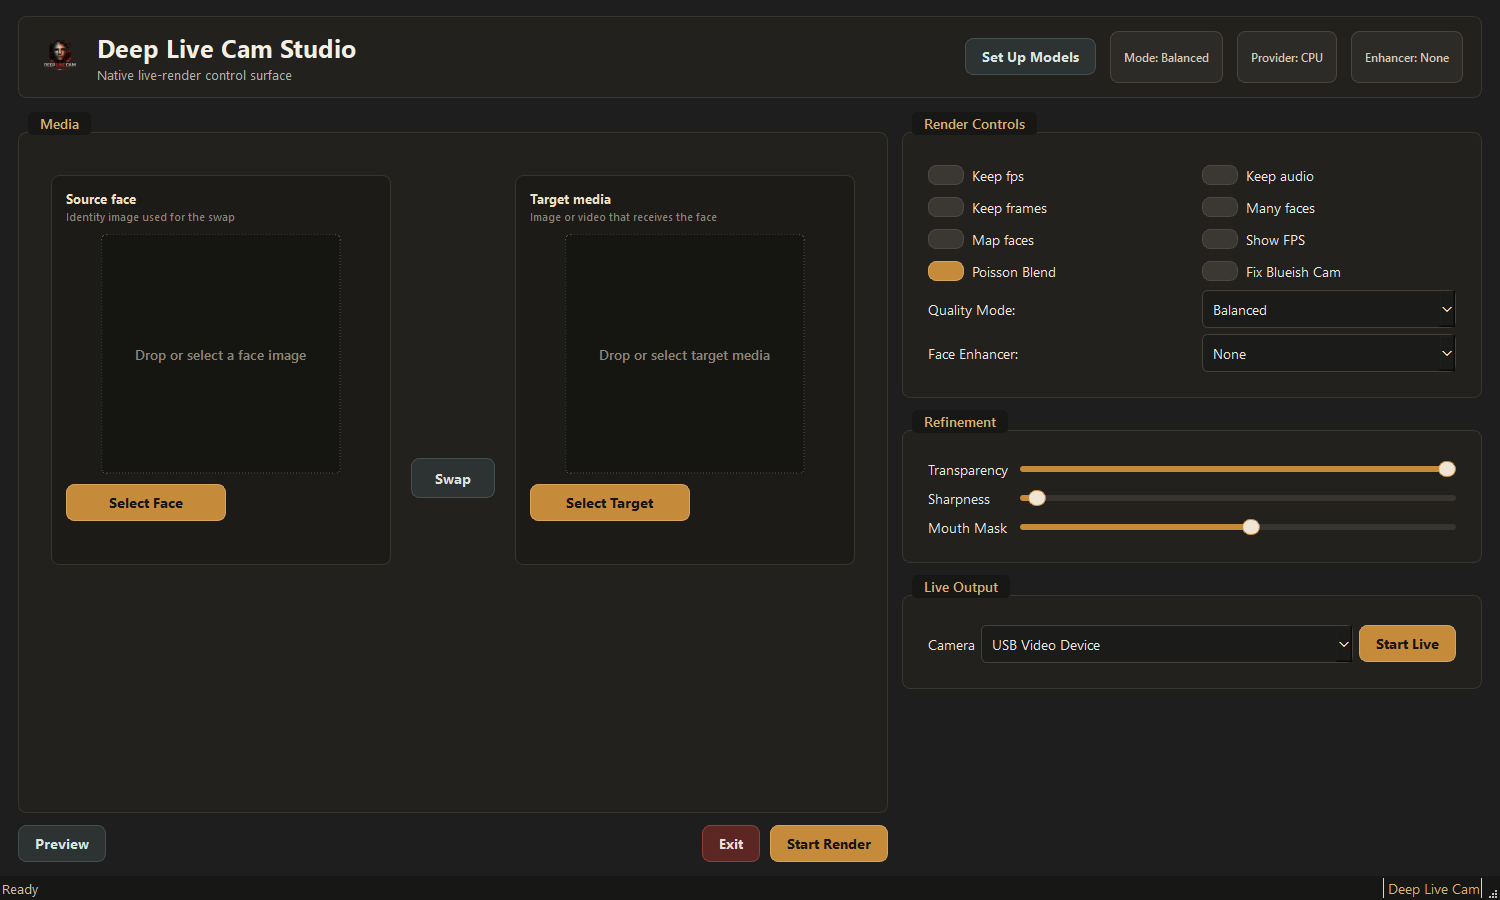
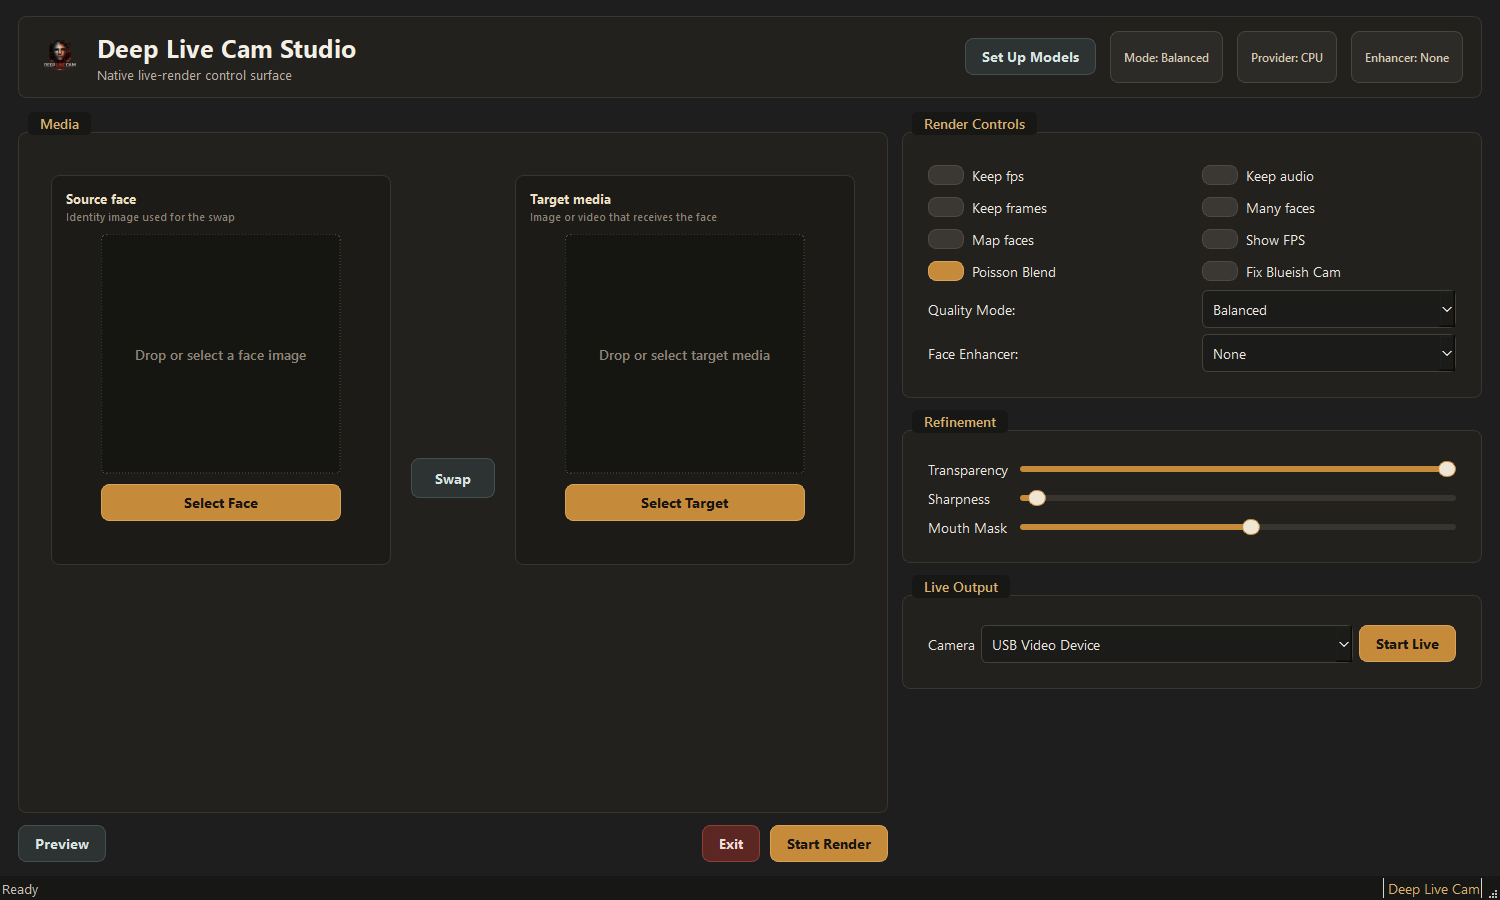
Align media action buttons

Changed region(s): [[0.3373, 0.5289, 0.552, 0.5911], [0.1227, 0.5289, 0.2453, 0.5911], [0.0307, 0.5289, 0.092, 0.5911]]

diff --git a/modules/ui.py b/modules/ui.py
@@ -136,7 +136,7 @@ POPUP_LIVE_SCROLL_HEIGHT = 700
 MAPPER_PREVIEW_SIZE = 100
 SOURCE_TARGET_PREVIEW_SIZE = 240
 MEDIA_SLOT_HEIGHT = 390
-MEDIA_ACTION_WIDTH = 160
+MEDIA_ACTION_WIDTH = SOURCE_TARGET_PREVIEW_SIZE
 APP_LOGO_NAME = "Logo.png"
 
 
@@ -627,7 +627,7 @@ def _media_slot(
     layout.addWidget(preview, alignment=Qt.AlignmentFlag.AlignCenter)
 
     if isinstance(controls, QPushButton):
-        layout.addWidget(controls, alignment=Qt.AlignmentFlag.AlignLeft)
+        layout.addWidget(controls, alignment=Qt.AlignmentFlag.AlignCenter)
     else:
         layout.addLayout(controls)
 
@@ -831,7 +831,7 @@ class MainWindow(QMainWindow):
         )
         self.btn_select_source.clicked.connect(self._on_select_source)
         src_row.addWidget(self.btn_select_source)
-        src_row.addStretch(1)
+        src_row.setAlignment(Qt.AlignmentFlag.AlignCenter)
         src_slot = _media_slot(
             _("Source face"),
             _("Identity image used for the swap"),
